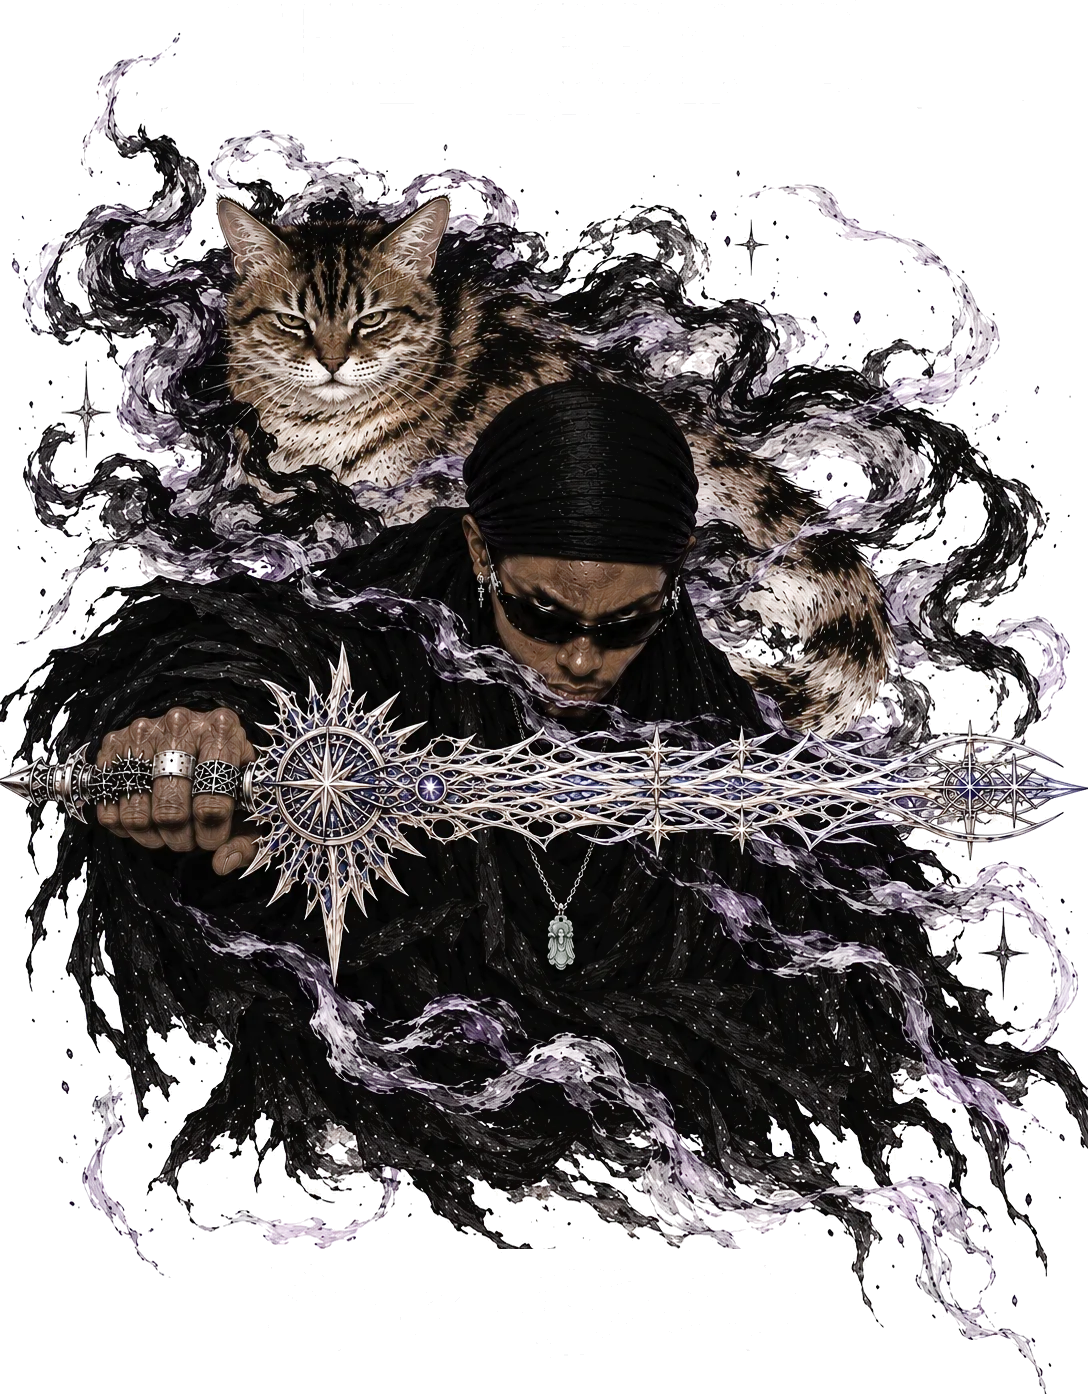
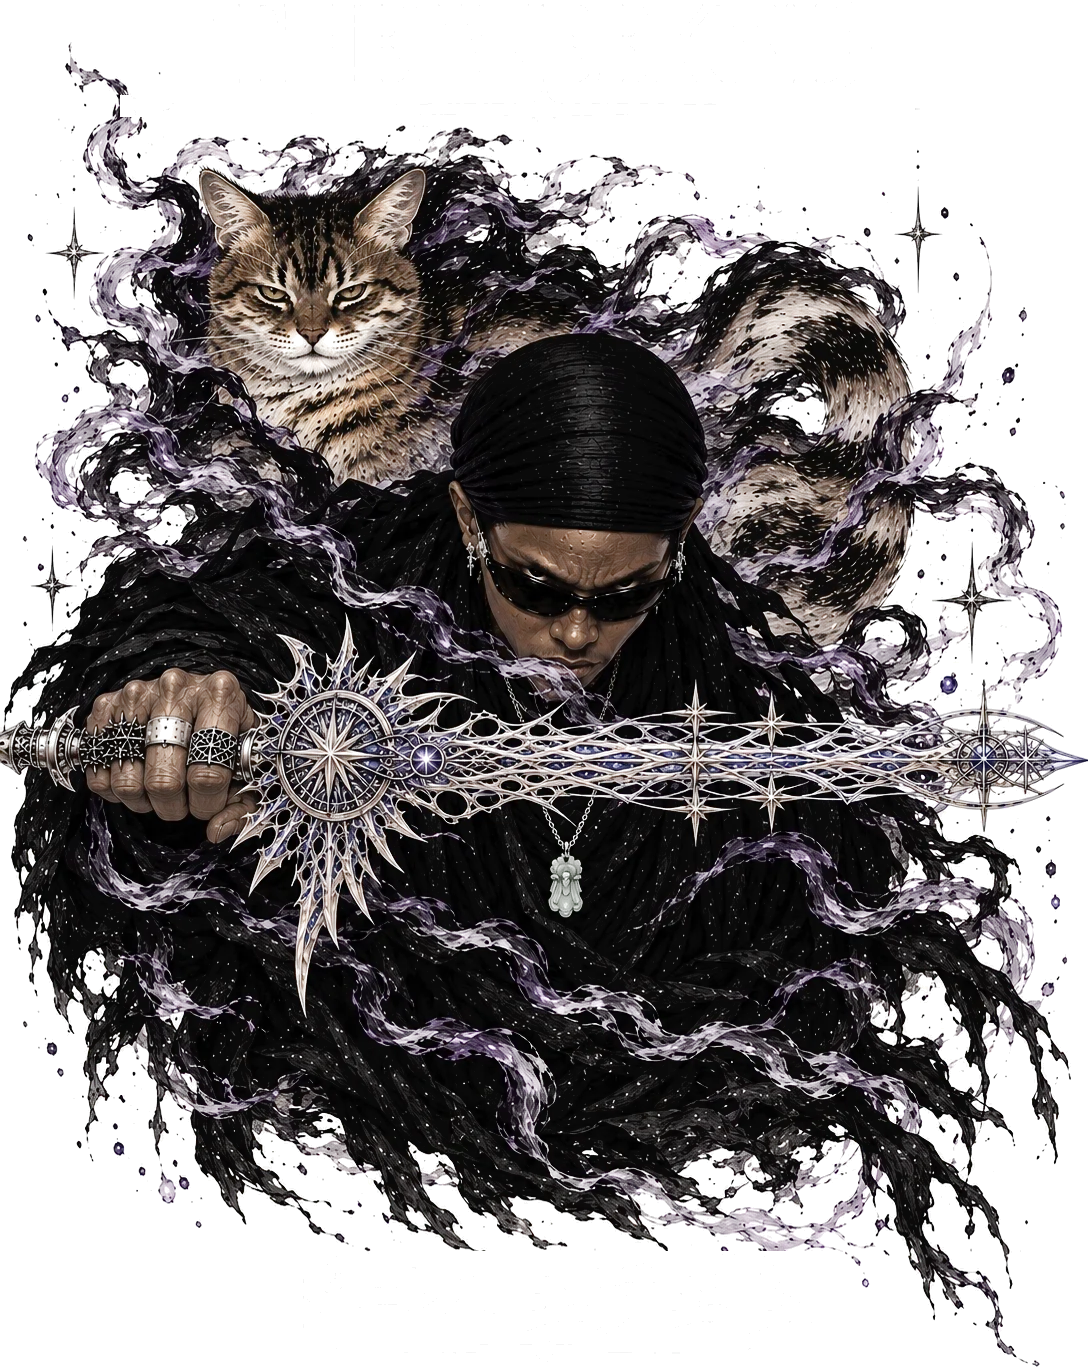
The better portrait: lettering removed, blacks deepened, skin left exactly as painted

diff --git a/site/blog.css b/site/blog.css
@@ -92,7 +92,7 @@ main { position: relative; z-index: 2; margin-left: var(--side); min-height: 100
 .poster-title em, .sheet h1 em { font-weight: 400; }
 .poster-rule { position: relative; height: 12px; margin: 14px auto 18px; width: 86%; background: linear-gradient(var(--ink), var(--ink)) 0 50% / 100% 1.4px no-repeat; }
 .poster-rule::after { content: ""; position: absolute; left: 50%; top: 50%; width: 10px; height: 10px; background: var(--ink); transform: translate(-50%, -50%) rotate(45deg); }
-.portrait { position: relative; aspect-ratio: 1088 / 1394; background: #f6f9fc; box-shadow: 0 1px 0 rgba(23, 22, 28, .08), 0 30px 60px -30px rgba(40, 55, 80, .4); overflow: hidden; }
+.portrait { position: relative; aspect-ratio: 1088 / 1371; background: #f6f9fc; box-shadow: 0 1px 0 rgba(23, 22, 28, .08), 0 30px 60px -30px rgba(40, 55, 80, .4); overflow: hidden; }
 .portrait img, .portrait canvas { position: absolute; inset: 0; width: 100%; height: 100%; object-fit: cover; }
 /* once the portrait is hung it floats on the page, unframed, its smoke trailing off into the blue */
 .portrait.hung { aspect-ratio: auto; background: none; box-shadow: none; overflow: visible; margin-top: -6px; }
